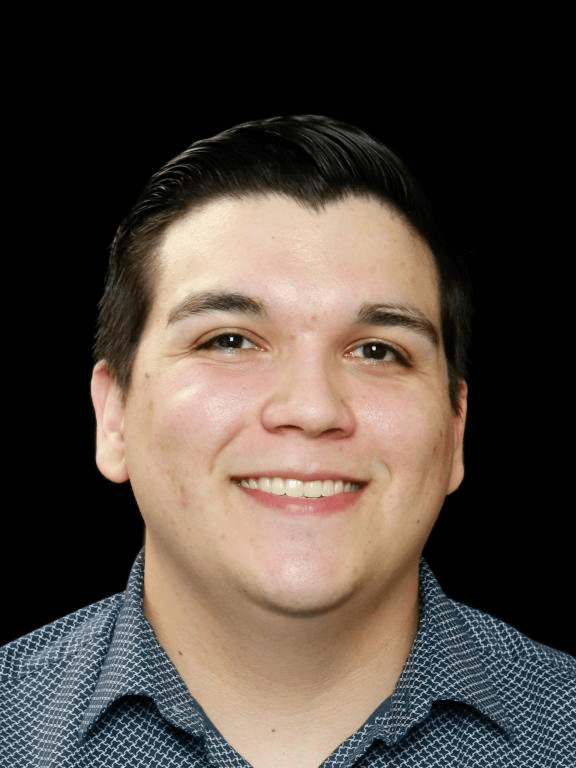
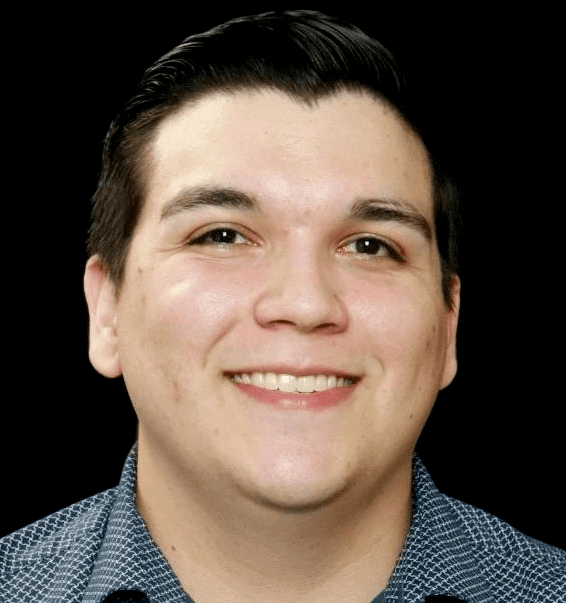
Cropped image to be able to eliminate library and revert image back to a circle.

diff --git a/index.html b/index.html
@@ -30,7 +30,7 @@
         <div>
             <div class="portfolio">
                 <div class="portfolio-image">
-                    <img src="assets/images/emilio.png" alt="Emilio Valladares" class="circle">
+                    <img src="assets/images/emilio4.png" alt="Emilio Valladares">
                 </div>
                 <div>
                     <ul class="icons">

diff --git a/assets/css/style.css b/assets/css/style.css
@@ -43,6 +43,7 @@ body {
 .portfolio-image img {
     width: 100%;
     height: auto;
+    border-radius: 50%;
 }
 
 .footerIcon {
